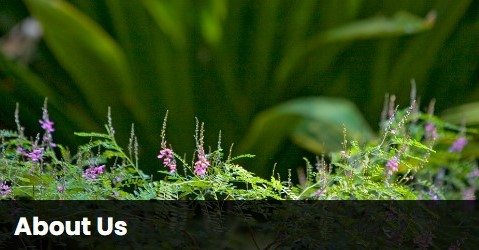
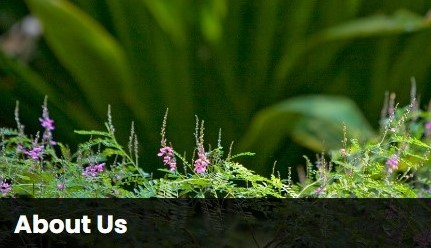
Fix image size of About / Location

diff --git a/HoursandLocationScreen.js b/HoursandLocationScreen.js
@@ -14,7 +14,7 @@ const HoursAndLocation = () => {
       </Text>
       <Text style={styles.heading}>Opening Hours</Text>
       <Text style={styles.text}>
-        We are open daily (except Christmas Day and Good Friday).
+        We are open daily (except Christmas Day and Good Friday).{"\n"}
       </Text>
 
       <Text>
@@ -25,14 +25,14 @@ const HoursAndLocation = () => {
         <View style={styles.tableRow}>
           <Text style={styles.cellText}>{"\n"}Daylight saving hours{"\n"}From 1 October 2023</Text>
           <Text style={styles.cellText}>{"\n"}7am to 6.45pm weekends{"\n"} and public holidays</Text>
-        </View>{"\n"}
+        </View>{"\n"}{"\n"}
       </Text>
 
       <Text style={styles.heading}>Location</Text>
       <Text style={styles.text}>Set on 27 hectares at the foot of Mount Keira, Wollongong Botanic Garden is a short distance from the City Centre, and next to the University of Wollongong’s main campus. We are located approximately 85 kilometres south of Sydney.</Text>
       <Image
         style={styles.image}
-        source={require("./assets/locationMap.jpg")}
+        source={require("./assets/map1.png")}
       />
 
       <Text style={styles.heading}>Getting here</Text>
@@ -72,7 +72,7 @@ const styles = StyleSheet.create({
     backgroundColor: '#fff',
   },
   image: {
-    width: 395,
+    width: 370,
     height: 220,
     borderRadius: 10,
     marginBottom: 20,

diff --git a/AboutScreen.js b/AboutScreen.js
@@ -54,7 +54,7 @@ const styles = StyleSheet.create({
     backgroundColor: '#fff',
   },
   image: {
-    width: 395,
+    width: 370,
     height: 220,
     borderRadius: 10,
     marginBottom: 20,
